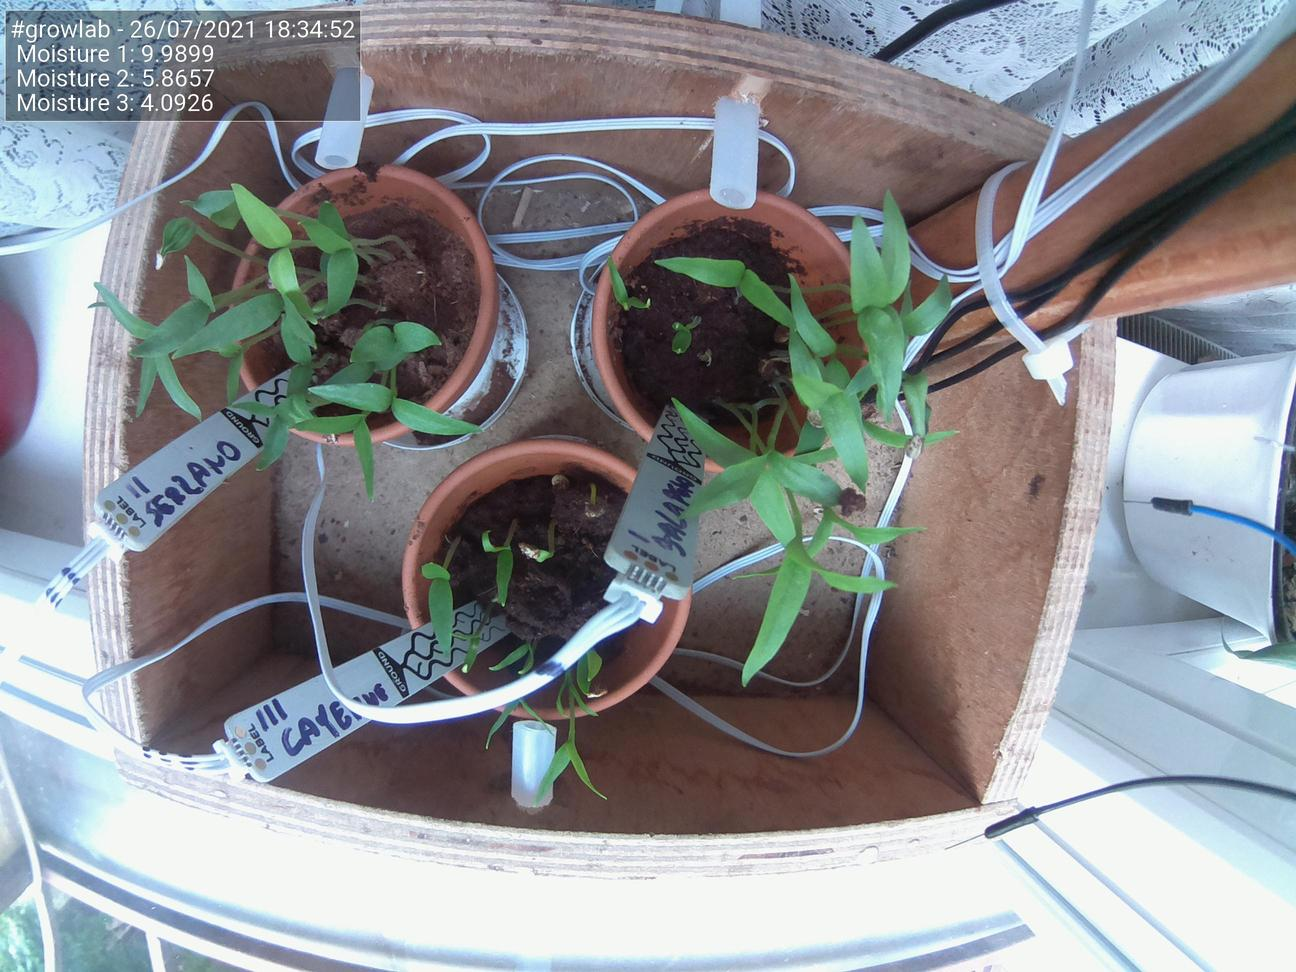
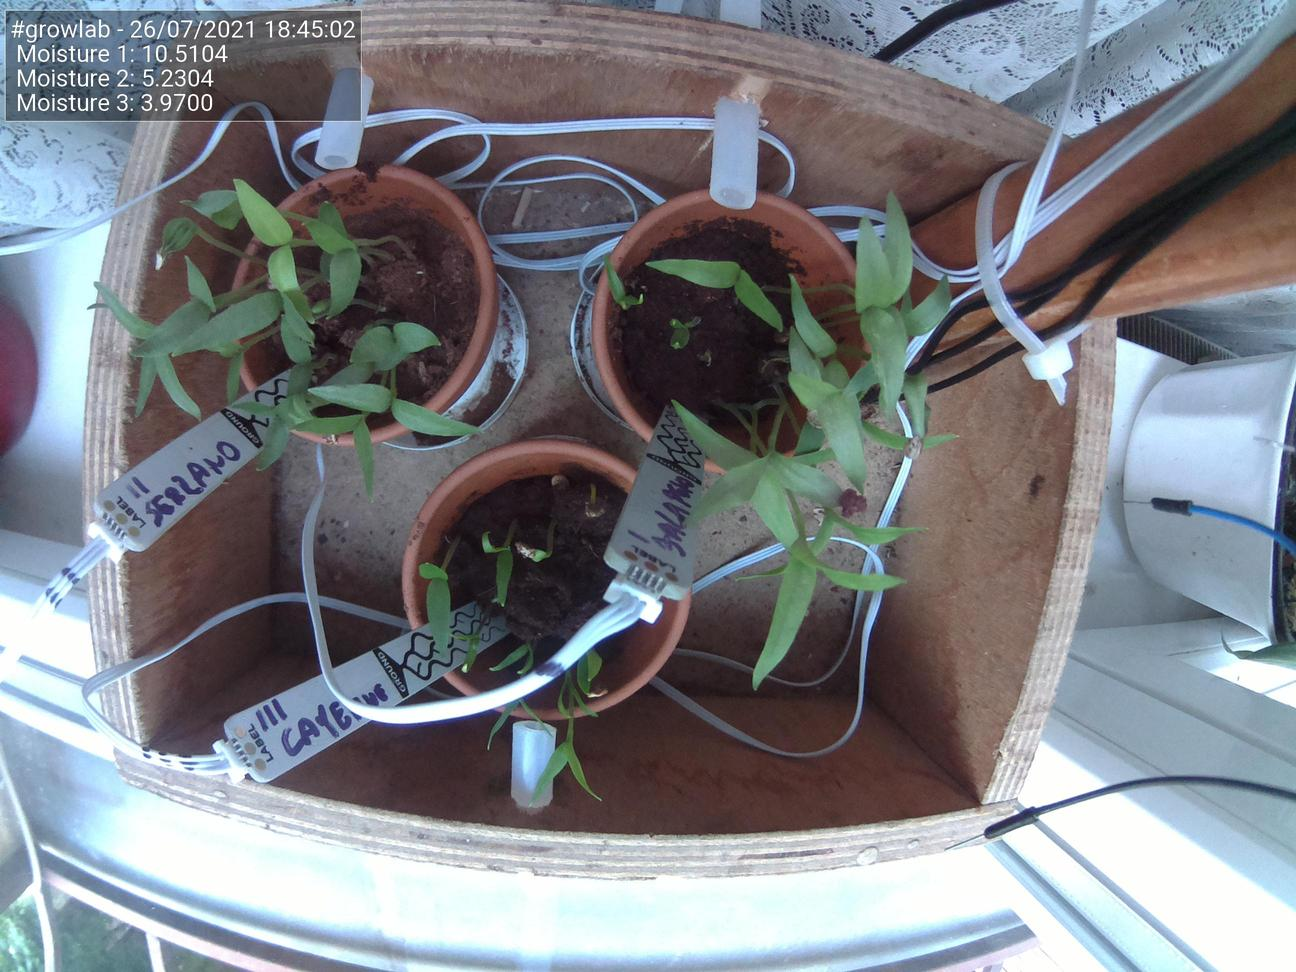
Update images at Mon 26 Jul 18:45:08 BST 2021

diff --git a/docs/index.html b/docs/index.html
@@ -51,25 +51,25 @@
                                 <td>Date</td>
                                 <td>26/07/2021</td>
                                 <td>Time</td>
-                                <td>18:34:52</td>
+                                <td>18:45:02</td>
                             </tr>
                             <tr>
                                 <td>Temperature</td>
                                 <td>N/A</td>
                                 <td>Moisture 1</td>
-                                <td>9.9899</td>
+                                <td>10.5104</td>
                             </tr>
                             <tr>
                                 <td>Humidity</td>
                                 <td>N/A</td>
                                 <td>Moisture 2</td>
-                                <td>5.8657</td>
+                                <td>5.2304</td>
                             </tr>
                             <tr>
                                 <td>Pressure</td>
                                 <td>N/A</td>
                                 <td>Moisture 3</td>
-                                <td>4.0926</td>
+                                <td>3.9700</td>
                             </tr>
                         </tbody>
                     </table>
@@ -77,7 +77,7 @@
 
                 <h5>Latest image</h5>
                 <div style="width: 85%;">
-                            <img class="figure-img img-fluid rounded" src="./preview.jpg?uid=1627320898.3838522">
+                            <img class="figure-img img-fluid rounded" src="./preview.jpg?uid=1627321508.5366194">
                 </div>
             </div>
         </div>
